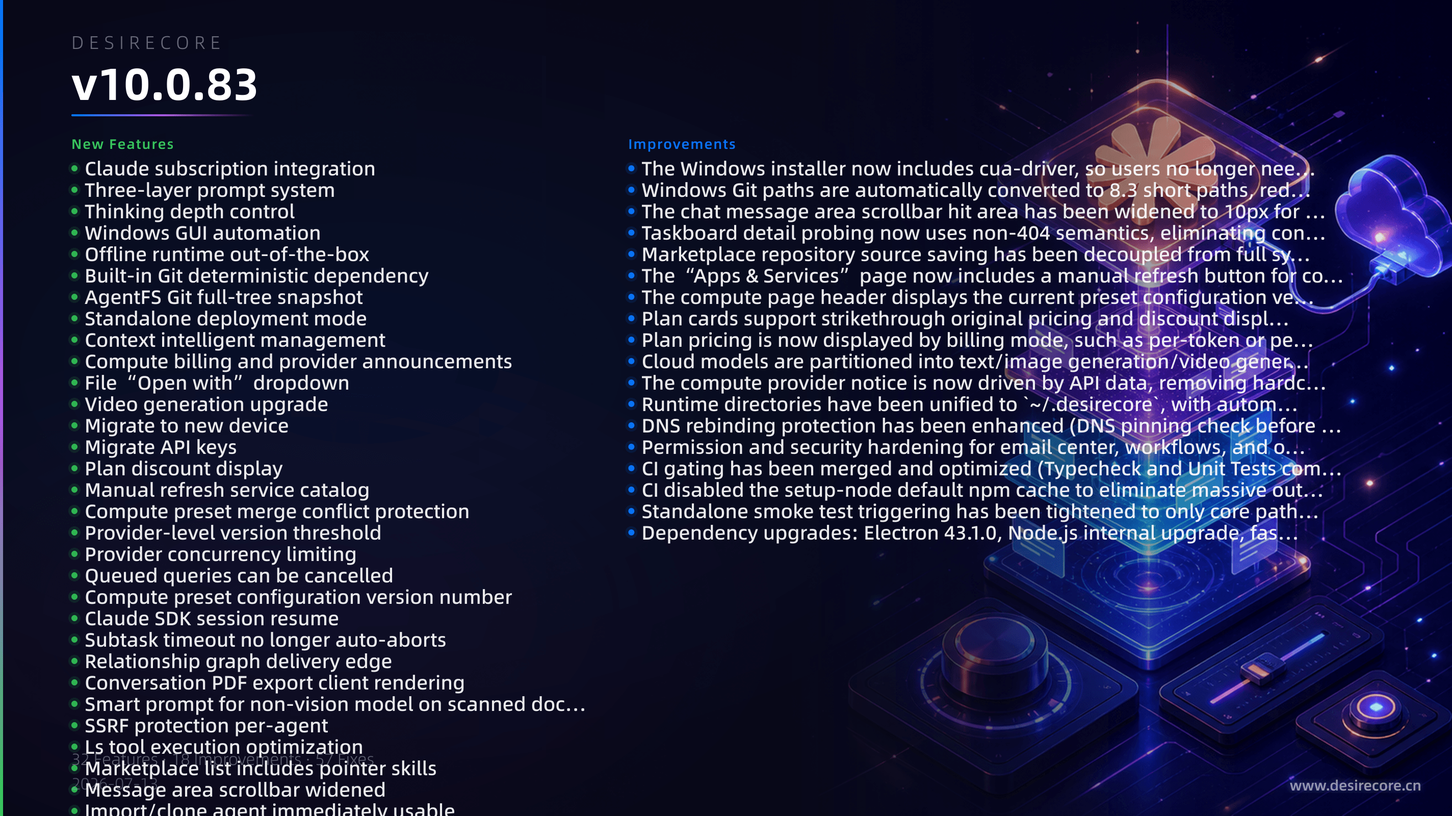
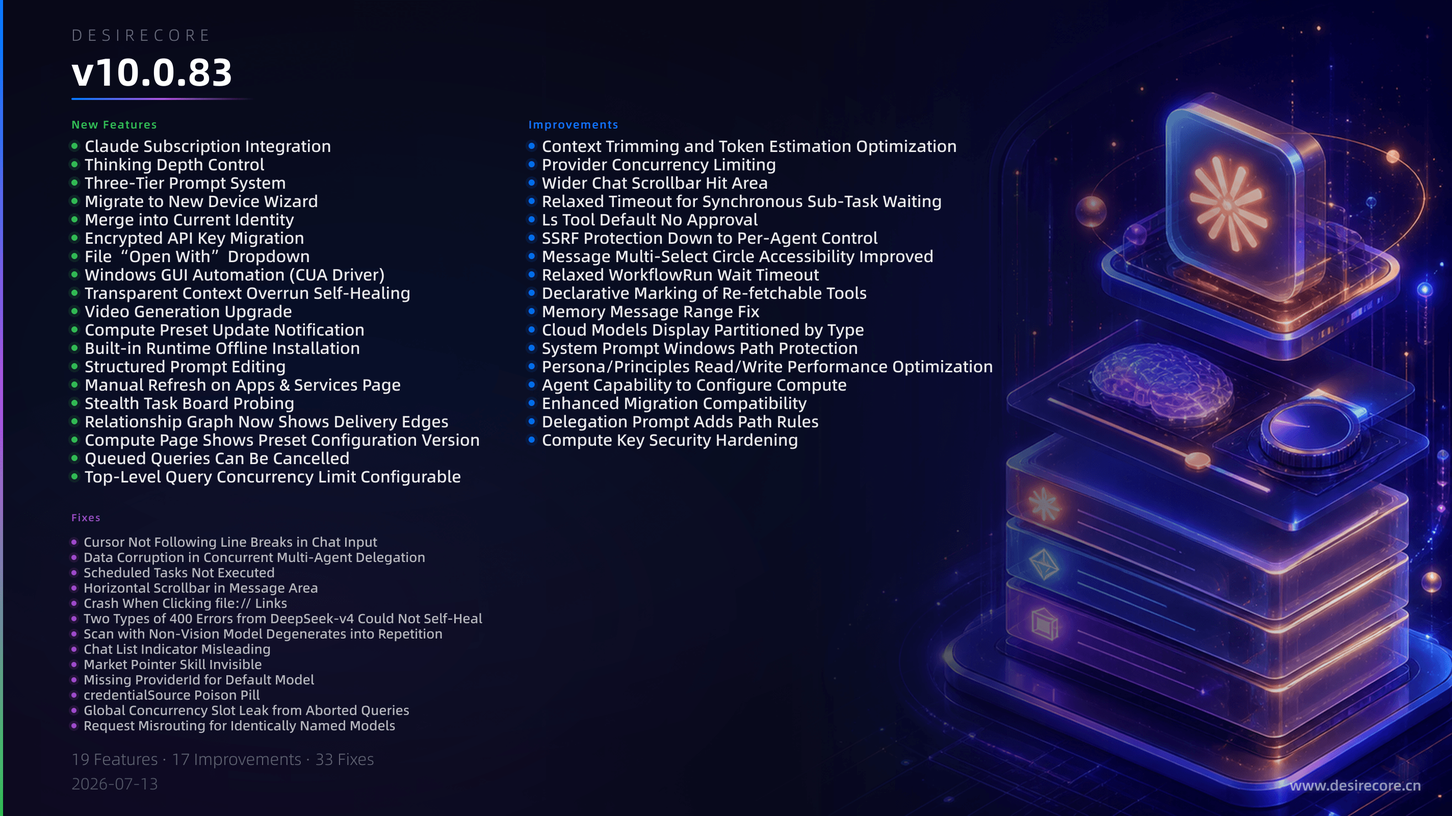
docs: update changelog for v10.0.83

diff --git a/i18n/en/docusaurus-plugin-content-docs/current/05-more/10-changelog/v10.0.83.md b/i18n/en/docusaurus-plugin-content-docs/current/05-more/10-changelog/v10.0.83.md
@@ -5,119 +5,81 @@ sidebar_position: 17
 
 # DesireCore v10.0.83
 
-**Release Date**: 2026-07-12
+**Release Date**: 2026-07-13
 
-![v10.0.83 Release Overview](/img/changelog/v10.0.83-en.png)
+![v10.0.83 更新概览](/img/changelog/v10.0.83-en.png)
 
 ## New Features
-- **Claude subscription integration**: Supports three ways to access Claude Pro/Max subscription compute: native login via Claude Code, in-app OAuth, or manual `setup-token`. Fulfillment is handled through the built-in Claude Agent SDK backend with a complete audit chain.
-- **Three-layer prompt system**: Introduces global (user-level), team (Git-managed, distributed with the team), and Agent layers of overlay prompts. A centralized “Prompt Center” UI provides unified management with structured form editing and real-time preview.
-- **Thinking depth control**: A session-level thinking depth selector button added to the input box, supporting six levels: auto/off/low/medium/high/maximum. Automatically compatible with both OpenAI and Anthropic formats; the setting can be persisted in the agent configuration.
-- **Windows GUI automation**: The Windows installer bundles cua-driver 0.7.1. Agents can directly control native Windows applications (screenshot, click, input, read window state), with support for background windows that don’t steal focus—ready to use out of the box.
-- **Offline runtime out-of-the-box**: The installer includes Python 3.13 and Node.js 24 LTS runtimes, auto-imported on first launch and fully usable offline. The version list also provides an offline fallback, eliminating infinite retries on an empty list.
-- **Built-in Git deterministic dependency**: Git 2.53.0 is bundled with the application, so marketplace sync, Agent snapshots, and other features work without a system Git installation.
-- **AgentFS Git full-tree snapshot**: The rollback mechanism has been upgraded from file-level copying to Git full-tree snapshots, supporting holistic restoration (including recreation after deletion) and naturally covering off-round and background writes.
-- **Standalone deployment mode**: Agent Service can be deployed as an independent process on a server, separate from Electron, with secure remote access and one-customer-per-container delivery (includes instance lock, token authentication, SSRF protection, Caddy TLS, and other complete recipes).
-- **Context intelligent management**: Context trimming now follows a cascading strategy: truncate tool output first → delete old turns → fold middle segments. Tool outputs that can be refetched are unloaded losslessly. The model’s real context window and output limit are learned automatically from limit-exceeded errors and persisted, enabling large outputs to be generated in one pass.
-- **Compute billing and provider announcements**: The compute model list now shows a “Compute power provided by partners” notice at the top. Models are partitioned into text/image generation/video generation sections (generation models are marked “Chat unavailable”). Pricing is displayed for different billing modes such as per-token or per-use.
-- **File “Open with” dropdown**: A new “Open with ▾” dropdown on message file entries supports in-app open, system default application, choose other application, and reveal in folder.
-- **Video generation upgrade**: The video generation relay has been upgraded to an OpenAI Video API-compatible path, providing out-of-the-box HappyHorse video generation using official cloud compute, while also adapting to the Doubao Seedance 2.0 video model.
-- **Migrate to new device**: A complete “Migrate to new device” export/import wizard has been added, supporting M1 identity replacement (identity follows the person) and M2 merge into the current identity (source data remapped to the local identity).
-- **Migrate API keys**: Migration exports can optionally encrypt API keys (scrypt + AES-256-GCM). On import, you can decide per provider whether to replace or merge keys, avoiding reconfiguring all keys on the new device.
-- **Plan discount display**: Plan card pricing now supports a strikethrough original price and discount badges like “Save X%” / “Limited free”.
-- **Manual refresh service catalog**: A manual refresh button has been added to the “Apps & Services” page to instantly sync the registry directory.
-- **Compute preset merge conflict protection**: When config-center preset updates are applied, user-modified provider fields (endpoint, label, format, etc.) are never overwritten. Conflicts are presented in a review panel for visual comparison and decision.
-- **Provider-level version threshold**: Config-center can declare a minimum client version requirement for a provider. If the requirement is not met, a “Client update required” prompt is shown instead of the provider being silently unavailable.
-- **Provider concurrency limiting**: You can configure a maximum number of concurrent requests and a queue limit per provider. Requests exceeding the limit wait in the queue instead of erroring out, and the frontend shows real-time queue status.
-- **Queued queries can be cancelled**: Queries waiting in the queue can be stopped by clicking, immediately dequeuing them so they are not unconditionally scheduled for execution with side effects.
-- **Compute preset configuration version number**: The header of the compute page now displays the current preset data version, making it easy to confirm sync status.
-- **Claude SDK session resume**: The Claude subscription path supports session-resume to restore prompt cache, reducing quota consumption from repeated context. Images can also be passed directly to the model on the subscription path.
-- **Subtask timeout no longer auto-aborts**: The default synchronization timeout for delegation, generating sub-agents, and sending messages has been relaxed to 30 minutes. On timeout, the sub-session is no longer automatically aborted; instead, the caller is informed and can choose to continue or actively terminate.
-- **Relationship graph delivery edge**: The relationship graph now includes a “delivery” edge. When an agent successfully delivers a result, the graph correctly renders the delivery link.
-- **Conversation PDF export client rendering**: Conversation PDF export now uses client-side rendering, removing the dependency on an Agent Service host.
-- **Smart prompt for non-vision model on scanned documents**: When a non-vision model reads a pure scanned PDF, instead of clearing tools and causing infinite re-reading, the server now directly prompts “Please switch to a model that supports visual understanding” and ends the turn.
-- **SSRF protection per-agent**: SSRF protection has been extended from a global switch to per-agent configuration, with changes taking effect immediately without restart. The stricter of the global and agent-level settings is applied.
-- **Ls tool execution optimization**: Ls directory listing defaults to automatic approval without manual confirmation (read-only operation). On macOS, when accessing a directory protected by system permissions for the first time, a native authorization dialog automatically appears; when permission is denied, a clear system-settings guide is returned.
-- **Marketplace list includes pointer skills**: ADR-038 pointer skills are fully available when browsing, searching, and viewing details in the marketplace. Version determination has been fixed (falls back to the marketplace registered version when no version field is present), and frontmatter validation now accepts comma-separated values.
-- **Message area scrollbar widened**: The vertical scrollbar track in the chat message area has been widened to 10px for easier mouse dragging.
-- **Import/clone agent immediately usable**: Agents imported or cloned by any means are online immediately after being written to disk; a client restart is no longer required.
-- **Delegate prompt path rules**: When delegating tasks, agents now actively use absolute paths when referencing files or directories, preventing path resolution failures caused by different working directories on the receiving side.
+- **Claude Subscription Integration**: Support for logging in via Claude Code OAuth or manual configuration, using Claude Pro/Max subscription compute; model calls are fulfilled through the built-in official SDK backend with complete audit trails.
+- **Thinking Depth Control**: Added thinking depth level buttons in the chat input area, supporting Off / Auto / Deep multiple levels, with per-session memory; covers OpenAI, Anthropic, and domestic model dialects.
+- **Three-Tier Prompt System**: Added global (personal) and team-level prompts, injected on top of Agent-level prompts; new centralized Prompt Center for unified management, editing, and preview of all three tiers.
+- **Migrate to New Device Wizard**: A new “Migrate to New Device” entry in Settings, with a five-step wizard to export all data; on the new machine, the import process automatically recognizes the migration package, supports identity comparison, pre-backup protection, and restart to apply.
+- **Merge into Current Identity**: When importing a migration package, supports “Merge into Current Identity” mode, which remaps source identity data to the local identity name while keeping the local identity unchanged.
+- **Encrypted API Key Migration**: Optionally carry custom Provider API keys during migration, encrypted with a passphrase and stored independently (original secrets files are never included in the package); upon import, decide merging for each Provider individually.
+- **File “Open With” Dropdown**: File entries in chat messages now have an “Open With” menu, supporting in-app open, system default app, choose another app, and locate in file manager.
+- **Windows GUI Automation (CUA Driver)**: The Windows installer ships with cua-driver, enabling Agents to control desktop applications (screenshot, click, type, read window). Background operations do not steal focus, and users get out-of-the-box experience with zero setup.
+- **Transparent Context Overrun Self-Healing**: When the context exceeds the model’s true limit, the system automatically learns the real window and transparently retries; for large outputs, dynamic budget calculation produces the result in one go, eliminating manual adjustments.
+- **Video Generation Upgrade**: Upgraded to OpenAI Video API standard format, integrated official cloud compute for image/video generation, and adapted for the Doubao Seedance 2.0 video model.
+- **Compute Preset Update Notification**: When official Provider or model configurations published by config-center change, a notification badge and review panel show conflict diff and change details; users can adopt or keep each item.
+- **Built-in Runtime Offline Installation**: The installer bundles Python 3.13 and Node 24 LTS offline runtimes; they are silently imported in the background on first launch, enabling environment setup without internet.
+- **Structured Prompt Editing**: Agent persona and principles now support L0/L1/L2 layered form editing, with automatic format and schema validation on save; the system prompt preview panel shows segment proportions and allows copying the full prompt.
+- **Manual Refresh on Apps & Services Page**: Added a refresh button to manually synchronize registry directories and the pending approval queue.
+- **Stealth Task Board Probing**: Switching sessions no longer floods the console with 404 error logs from probing non-existent task boards.
+- **Relationship Graph Now Shows Delivery Edges**: After an Agent successfully delivers results, the “delivery” relationship edge is correctly displayed in the relationship graph, forming a closed loop with the “delegation” edge.
+- **Compute Page Shows Preset Configuration Version**: The header metadata area displays the current preset data version, aiding in troubleshooting configuration sync issues.
+- **Queued Queries Can Be Cancelled**: Users can stop a request at any time while waiting in the queue, preventing unconditional scheduling and execution.
+- **Top-Level Query Concurrency Limit Configurable**: The number of simultaneous top-level queries can be customized via an environment variable; interactive queries automatically take priority over background tasks.
 
 ## Fixes
-- Fixed an issue where macOS builds were rejected by Apple notarization because the built-in Python runtime binary lacked a secure timestamp (macOS packages now fall back to online runtime installation on first launch).
-- Fixed an issue on Windows where asar path separators caused SDK file verification to falsely report all misses.
-- Fixed an issue where `cpSync` default behavior rewritten built-in Git symbolic links as absolute paths, causing macOS notarization failure and dangling links in Linux packages.
-- Fixed an issue where uploading large files over slow links caused an endless 403 `RequestTimeTooSkewed` loop because transfers exceeded the SigV4 time window (files ≥64MB now use S3 multipart upload).
-- Fixed an issue in CI where `detect` and `post-release` jobs were scheduled on macOS runners, causing `gh` CLI download failures and the entire build being skipped.
-- Fixed multiple after-pack platform bugs in the v10.0.83 build that caused consecutive build failures.
-- Fixed an issue where same-named models routed through proxies could be incorrectly sent to the wrong provider (precise routing for multiple providers with same-named models, also covering all internal LLM invocation paths).
-- Fixed an issue where gateways that did not declare a dialect would not send the thinking depth activation parameter when a depth was selected (parameters are now injected fully based on the dialect).
-- Fixed an infinite loop where non-vision models reading pure scanned PDFs had all tools cleared, causing degenerate re-reading.
-- Fixed an issue where scheduled tasks would respond only once and then stop executing (maxTurns relaxed to 30, interim-ack detection added for continued running, failure fallback closed loop).
-- Fixed an issue where scheduled task execution results were not fed back, rendering all backoff, alerting, and disabling mechanisms ineffective.
-- Fixed an issue where relative time drifted in conversations (the model’s “now” was frozen at session start, causing “X minutes later” to be inaccurate).
-- Fixed an issue where clicking `file://` links in agent replies caused errors on macOS or a gray screen freeze on Windows.
-- Fixed an issue where data cleanup failed on Windows (Git read-only files and reserved device names caused `rmSync EPERM`).
-- Fixed an issue where imported agents appeared as offline in the list (the imported path was not registered in the Registry after being written to disk).
-- Fixed an issue where AgentFS file monitoring hot updates completely stopped working (`chokidar` mistakenly ignored the entire `~/.desirecore` hidden directory tree).
-- Fixed an issue where fan-out parallel delegation skipped target validation, causing non-existent targets to be silently executed.
-- Fixed an issue where delegation cards displayed “unknown” in fan-out mode.
-- Fixed an issue where concurrent delegation, messaging, and assistance requests resulted in mismatched replies (a `correlationId` was added to the via-messaging path for precise matching).
-- Fixed an issue where `send_message` asynchronous receipts could mismatch synchronous waiters across paths due to a missing `correlationId`.
-- Fixed an issue where pressing Shift+Enter for a new line in the chat input box scrolled the new line out of view, making users think the line break had not worked.
-- Fixed an issue where scrolling to the bottom of the chat message area and continuing to scroll caused the entire window to flicker (added `overscroll-contain` to block scroll chain bubbling).
-- Fixed an issue where a horizontal scrollbar in the message area made long content clipped and invisible (switched to `overflow-wrap: anywhere` plus markdown internal horizontal scrolling).
-- Fixed an issue where the message action bar overflowed and covered the timestamp in narrow bubbles.
-- Fixed an issue where the selection circle was unresponsive in multi-select mode (especially in complex DOM structures).
-- Fixed an issue where the agent list indicator incorrectly showed green during tool execution (indicator color now derived from session state and active tool name).
-- Fixed an issue where requests were routed to a local provider when both cloud and local models had the same name.
-- Fixed an issue where the message count in conversation-memory topic details displayed values in the billions (`messageIndex` was mistakenly passing a timestamp).
-- Fixed an issue where floating-point relationship heat numbers broke the card layout (now displayed with a thousands separator and one decimal place).
-- Fixed an issue on Windows where paths containing spaces caused all Git operations to crash.
-- Fixed an issue where Git 8.3 short-path conversion spammed the log on every Git operation when PowerShell was unavailable.
-- Fixed an issue on Windows where extracting the built-in Git tarball always failed because MSYS tar cannot handle drive letter paths.
-- Fixed an issue where application cold-start taskboard probing produced a large amount of 404 noise in the console.
-- Fixed numerous data-consistency race conditions in concurrent multi-agent delegation (directory collisions, member loss, half-written files, count drift).
-- Fixed an issue where the dual-lock system for `agent.json` was mutually unaware of each other, causing concurrent write conflicts.
-- Fixed an issue where the provider semaphore used the wrong key, making rate limiting ineffective.
-- Fixed an issue where a provider’s fractional concurrency limit was rounded down to zero slots, and configuration read failures were not retried.
-- Fixed an issue where corrupted compute configuration at agent-service startup prevented the entire service from starting.
-- Fixed an issue where stopping an agent query caused a permanent global concurrency slot leak, causing all top-level queries to hang.
-- Fixed the same slot leak occurring through the system sleep and conversation reset abort paths.
-- Fixed an issue where data import/export rules were maintained in a fragmented way.
-- Fixed an issue where malicious entries during zip import could write outside the intended directory.
-- Fixed an issue where the Agent Service did not automatically recover after an import failure.
-- Fixed an error in `agent.json` schema validation (added `author` and `default_enabled` field definitions).
-- Fixed an issue where renaming an agent did not refresh the chat sidebar list.
-- Fixed issues where the agent list showed duplicate teams and residual team entries remained after deleting an agent.
-- Fixed an issue where the service catalog pending-review window crashed due to dirty data and did not update status in real time.
-- Fixed an issue where docx seed self-checks always failed with a `SyntaxError` due to nested quotes.
-- Fixed an issue where non-official Anthropic-compatible gateways (DeepSeek/GLM, etc.) in reasoning mode were missing the thinking response, causing a 400 error.
-- Fixed an issue where the self-healing mechanism for `max_tokens` exceeding a gateway’s hard limit did not recognize Chinese error messages, preventing it from learning.
-- Fixed multiple boundary accuracy issues in context trimming and token estimation.
-- Fixed an issue where models like GLM mistakenly output tool parameters as an array, crashing the entire session.
-- Fixed an issue where during the pipeline assembly phase (after acquiring a slot, before `sessionId` generation) query cancellation was unresponsive.
-- Fixed an issue where provider semaphore queue waiters had no abort awareness, leading to wasted queuing delays.
-- Fixed an issue where pointer entries missing `requiredClientVersion` caused the upgrade gate to always evaluate as false.
-- Fixed an issue in standalone mode where some requests bypassed the unified authentication entry point, rendering authentication ineffective.
-- Fixed an issue where browser native media elements in standalone remote access could not carry authentication headers, making images and videos invisible.
+- **Cursor Not Following Line Breaks in Chat Input**: After operations like Shift+Enter line break, accepting prediction suggestions, or history recall, the cursor now scrolls into the visible area automatically.
+- **Data Corruption in Concurrent Multi-Agent Delegation**: Fixed data consistency issues during concurrent delegation, including team directory conflicts, member loss, half-written file corruption, and task count drift.
+- **Scheduled Tasks Not Executed**: Fixed an issue where scheduled tasks would reply with a single confirmation and then be truncated without ever completing; failed tasks now correctly back off and alert instead of infinitely retrying.
+- **Horizontal Scrollbar in Message Area**: Long URLs and wide Markdown tables no longer force a horizontal scrollbar; content is always fully visible.
+- **Crash When Clicking file:// Links**: Clicking a local file link in an Agent’s reply no longer crashes or grays out the window; instead it is opened with the system default app.
+- **Two Types of 400 Errors from DeepSeek-v4 Could Not Self-Heal**: Gateway `max_tokens` range limit errors and missing thinking block return errors are now automatically learned, corrected, and transparently retried.
+- **Scan with Non-Vision Model Degenerates into Repetition**: When reading a pure image-scan PDF using a non-vision model, the system now prompts to switch models directly instead of clearing tools, which previously caused the model to endlessly repeat output.
+- **Chat List Indicator Misleading**: The list indicator light no longer incorrectly shows green while an Agent is executing tools; it now correctly displays yellow (busy).
+- **Market Pointer Skill Invisible**: ADR-038 pointer-type skills are once again visible in the marketplace, searchable, and viewable in detail; version update detection works correctly.
+- **Missing ProviderId for Default Model**: Fixed a problem where historical data lost the ProviderId for the default model configuration, causing the default to become permanently invalid.
+- **credentialSource Poison Pill**: Fixed an issue where older clients merging a Provider preset containing unknown credential sources would reject the entire configuration, causing all compute to fail; now only unsupported Providers are skipped, and the rest work normally.
+- **Global Concurrency Slot Leak from Aborted Queries**: Repeatedly stopping queries manually no longer exhausts global concurrency slots, which previously froze all Agents. Also fixed leak paths triggered by system sleep and session reset.
+- **Request Misrouting for Identically Named Models**: When multiple Providers have identically named models, requests are no longer incorrectly routed to an unrelated Provider.
+- **Imported Agent List Offline**: Imported or cloned Agents now appear online in the list immediately without requiring an application restart.
+- **Missing Validation for Fan-out Delegation Targets**: When delegating to multiple targets simultaneously, invalid targets are now explicitly reported as failed instead of being silently skipped; the delegation card correctly shows all target names.
+- **AgentFS Hot Reload Failure**: Changes made by directly editing files like `agent.json` now take effect instantly without relying on manual refresh.
+- **Mismatched Async Acknowledgment for send_message**: Concurrent async message acknowledgments are no longer incorrectly assigned to other waiting synchronous requests.
+- **Mismatched Reply for Concurrent via-messaging Requests**: When the same caller makes multiple delegation/message/assist requests to the same target concurrently, replies are now precisely matched to the corresponding request.
+- **Window Flicker When Scrolling Past Bottom of Chat**: Continued scrolling after reaching the bottom of the message list no longer triggers window flickering.
+- **Chat Message Action Bar Overflow**: Action buttons beneath short messages no longer overflow and cover the timestamp.
+- **Unresponsive Selection Circle in Multi-Select Mode**: Fixed an issue where clicking the selection circle was unresponsive in certain scenarios.
+- **Market Repository Source Saving Stuck**: After adding a new repository source, the interface no longer gets stuck on “Saving” or shows repeated progress.
+- **Relationship Heat Value Overflow**: Relationship heat on the agent list is displayed as thousands with one decimal place, no longer bursting the card.
+- **Cannot Cancel During Pipeline Assembly Phase**: The tool assembly and context preparation phase (after acquiring a slot but before the actual query) now responds to stop operations.
+- **Service Directory Rendering Crash**: Dirty data generated when an Agent registers a service on behalf of someone no longer crashes the pending approval page; directory status updates in real time.
+- **Duplicate Team Creation with Same Name**: Duplicate team creation by AI repeated calls is now automatically deduplicated, preventing redundant teams.
+- **Orphaned Teams After Deleting Agent**: Teams that contained the deleted agent are automatically disbanded or have the member removed, preventing orphaned teams.
+- **Scanned Document Tool Clearance Causing Degenerative Repetition with Non-Vision Model**: Now directly prompts to switch model instead of letting the model fall into a dead loop with no available tools.
+- **Provider Concurrent Queue Without Timeout or Cancel**: Queued requests that are disconnected or aborted are immediately dequeued and no longer blocked.
+- **Failed to Clear Data on Windows**: Fixed errors when clearing data caused by read-only git files and reserved device name files.
+- **Git Operations Failed on Windows**: Fixed failures in market sync, Agent snapshots, etc., caused by git binary paths containing spaces or colons.
+- **Missing Cancel Checkpoint During Pipeline Assembly Phase**: Long-running steps like MCP tool discovery now respond to cancellation.
+- **Missing OpenAI Entry Point for Claude SDK Backend**: OpenAI-format requests are now correctly routed to the Claude SDK backend.
 
 ## Improvements
-- The Windows installer now includes cua-driver, so users no longer need to install it manually for GUI automation.
-- Windows Git paths are automatically converted to 8.3 short paths, reducing simple-git warning noise.
-- The chat message area scrollbar hit area has been widened to 10px for easier dragging.
-- Taskboard detail probing now uses non-404 semantics, eliminating console noise during startup and session switching.
-- Marketplace repository source saving has been decoupled from full sync, fixing the issue where adding a repository left it stuck on “Saving…” for a long time and showed the repository twice.
-- The “Apps & Services” page now includes a manual refresh button for convenient instant sync of the registry directory.
-- The compute page header displays the current preset configuration version number.
-- Plan cards support strikethrough original pricing and discount display.
-- Plan pricing is now displayed by billing mode, such as per-token or per-use.
-- Cloud models are partitioned into text/image generation/video generation sections, with generation models marked “Chat Unavailable”.
-- The compute provider notice is now driven by API data, removing hardcoded partner names.
-- Runtime directories have been unified to `~/.desirecore`, with automatic migration for existing users.
-- DNS rebinding protection has been enhanced (DNS pinning check before outbound + undici connection locking).
-- Permission and security hardening for email center, workflows, and other integration features.
-- CI gating has been merged and optimized (Typecheck and Unit Tests combined into a single job with `tsbuildinfo` incremental caching).
-- CI disabled the setup-node default npm cache to eliminate massive outbound traffic from self-hosted runners.
-- Standalone smoke test triggering has been tightened to only core path changes like `lib/**`.
-- Dependency upgrades: Electron 43.1.0, Node.js internal upgrade, fastify 5.10.0, tiptap suite 3.27.3, typebox 1.3.5, and others.
+- **Context Trimming and Token Estimation Optimization**: Trimming now uses a cheapest-first cascading strategy, with lossless unloading of re-fetchable tool results; token estimation now covers previously missed thinking and tool names, and non-OpenAI models automatically include additional margin.
+- **Provider Concurrency Limiting**: Each Provider can have a maximum concurrent request limit and queue size; excess requests wait in a queue instead of immediately failing. Configuration takes effect instantly.
+- **Wider Chat Scrollbar Hit Area**: The message list scrollbar track width increased to 10px for easier dragging.
+- **Relaxed Timeout for Synchronous Sub-Task Waiting**: Default wait time for delegation, `spawn_agent`, `send_message`, etc., extended from 5 minutes to 30 minutes; upon timeout, the task is no longer aborted automatically but instead prompts the caller to decide.
+- **Ls Tool Default No Approval**: Directory listing now executes directly; on macOS, first access to a protected directory triggers a system authorization dialog, and a permission denied response includes guidance.
+- **SSRF Protection Down to Per-Agent Control**: Each Agent can enable internal network protection individually, and DNS rebinding attacks are also blocked.
+- **Message Multi-Select Circle Accessibility Improved**: Selection circles are now semantic buttons, supporting keyboard operation and screen readers.
+- **Relaxed WorkflowRun Wait Timeout**: Running workflows is no longer truncated by a fixed timeout; a custom timeout can be passed.
+- **Declarative Marking of Re-fetchable Tools**: The “re-fetchable” attribute of a tool is now declared in the registry, and MCP tools automatically derive it based on the protocol.
+- **Memory Message Range Fix**: Message counts in thread details no longer show abnormally large values (billions); historical dirty data is auto-repaired.
+- **Cloud Models Display Partitioned by Type**: Official compute models are displayed in partitions (text / image generation / video generation), with pricing shown by billing mode and supplier announcements at the top.
+- **System Prompt Windows Path Protection**: Windows paths in system prompts are wrapped in inline code to prevent backslash escaping by Markdown.
+- **Persona/Principles Read/Write Performance Optimization**: Uses caching based on file modification time, re-parsing only after external edits.
+- **Agent Capability to Configure Compute**: Agents can help users configure Providers and API keys; keys are write-only for Agents.
+- **Enhanced Migration Compatibility**: Old-version export packages and future-version packages can be safely imported, with proactive alerts when importing across identities.
+- **Delegation Prompt Adds Path Rules**: When passing file resources across Agents, absolute paths are automatically used.
+- **Compute Key Security Hardening**: Keys are automatically masked in HTTP responses; plaintext viewing requires IPC channel authorization. Read/Grep/Ls tools are precisely denied access to key files.

diff --git a/docs/05-more/10-changelog/v10.0.83.md b/docs/05-more/10-changelog/v10.0.83.md
@@ -5,119 +5,81 @@ sidebar_position: 17
 
 # DesireCore v10.0.83
 
-**发布日期**: 2026-07-12
+**发布日期**: 2026-07-13
 
 ![v10.0.83 更新概览](/img/changelog/v10.0.83.png)
 
 ## 新功能
-- **Claude 订阅接入**：支持通过 Claude Code 原生登录、应用内 OAuth 或手动 setup-token 三种方式接入 Claude Pro/Max 订阅算力，经内置 Claude Agent SDK 后端履约，审计链路完整
-- **三层提示词体系**：新增全局层（用户级）、团队层（git 管理随团队分发）和 Agent 层三层叠加提示词，提供集中式「提示词中心」UI 统一管理，支持结构化表单编辑与实时预览
-- **思考深度控制**：输入框新增思考深度档位选择按钮（会话级），支持 auto/off/低/中/高/最深 六档，OpenAI 与 Anthropic 双格式自动兼容，档位可持久化到智能体配置
-- **Windows GUI 自动化**：Windows 安装包内置 cua-driver 0.7.1，智能体可直接操控 Windows 原生应用（截图、点击、输入、读取窗口状态），支持后台窗口不抢焦点，开箱即用
-- **离线运行时开箱即用**：安装包内置 Python 3.13 和 Node.js 24 LTS 运行时，首启自动导入，完全离线可用；版本列表支持离线兜底，消除空列表无限重试问题
-- **内置 Git 确定性依赖**：随应用打包 Git 2.53.0，无需系统安装 Git 即可使用市场同步、Agent 快照等功能
-- **AgentFS Git 全树快照**：回撤机制从文件级拷贝升级为 Git 全树快照，支持整体还原（含删除后重建）、天然覆盖离回合后台写入
-- **独立部署模式**：Agent Service 可脱离 Electron 以独立进程部署到服务器，支持远程安全访问与一客户一容器交付（含实例锁、Token 鉴权、SSRF 防护、Caddy TLS 等完整配方）
-- **上下文智能管理**：上下文裁剪改为级联策略（先截工具输出→再删老轮→中段折叠），可重取工具的输出无损卸载；从超限报错自动学习模型真实上下文窗口与输出上限并持久化，大输出一次成型
-- **算力计费与供应商公告**：算力模型列表顶部展示「算力由合作伙伴提供」公告，模型按文本/图片生成/视频生成分区展示（生成类标注「对话不可用」），价格按 token/按次等计费模式分支展示
-- **文件「打开方式」下拉**：消息中的文件条目新增「打开方式 ▾」下拉菜单，支持应用内打开、系统默认应用打开、选择其他应用打开、在文件夹中定位显示
-- **视频生成升级**：视频生成中转升级为 OpenAI Video API 兼容路径，接入官方云算力开箱即用 HappyHorse 视频生成，同时适配豆包 Seedance 2.0 视频模型
-- **迁移到新设备**：新增「迁移到新设备」完整导出导入向导，支持 M1 身份替换（身份跟人走）和 M2 归并到当前身份（源数据定向重映射到本机身份）
-- **迁移 API 密钥**：迁移导出可选加密打包 API 密钥（scrypt + AES-256-GCM），导入时支持逐 Provider 替换/合并决策，避免新设备重新配置所有密钥
-- **套餐折扣展示**：套餐卡片价格区支持原价划线与省 X% / 限免折扣徽章展示
-- **手动刷新服务目录**：「应用与服务」页面新增手动刷新按钮，点击即时同步注册表目录
-- **算力预置合并冲突保护**：config-center 预置更新时，用户已修改的 Provider 字段（地址/标签/格式等）永不被上游覆盖，冲突项通过审阅面板可视化对比决策
-- **Provider 级版本门槛**：支持 config-center 为 Provider 声明客户端最低版本要求，不满足时提示「需更新客户端」而非静默不可用
-- **Provider 并发限流**：支持为每个 Provider 配置最大并发请求数与排队上限，超出排队等待而非报错，前端实时显示排队状态
-- **排队查询可中止**：排队等待中的查询支持点击停止立即出队，不再被无条件调度执行产生副作用
-- **算力预置配置版本号**：算力页面头部显示当前预置数据版本号，便于快速确认数据同步状态
-- **Claude SDK 会话恢复**：Claude 订阅路径支持 session-resume 恢复 prompt cache，减少重复上下文的 quota 消耗；支持图片在订阅路径直传给模型
-- **子任务超时不再自动中断**：委派/生成子 Agent/发送消息的同步等待默认超时放宽至 30 分钟，超时不再自动中止子会话，改为告知调用方自行决策继续或主动终止
-- **关系图谱交付边**：关系图谱补齐「交付」关系边，Agent 成功交付结果后图谱可正确渲染交付连线
-- **对话 PDF 导出客户端渲染**：对话导出 PDF 改为客户端端渲染，消除对 Agent Service 的宿主依赖
-- **扫描件遇非视觉模型智能提示**：非视觉模型读取纯扫描件 PDF 时，不再清空工具导致无限复读，改为服务端直接提示「请切换到支持视觉理解的模型」并结束本轮
-- **SSRF 防护下沉到 per-Agent**：SSRF 防护从全局开关扩展为逐 Agent 可配置，修改即时生效无需重启，全局与 Agent 级取更严
-- **Ls 工具执行优化**：Ls 列目录默认免审批直接执行（只读操作），macOS 首次访问受系统权限管控的目录时自动弹原生授权框，权限被拒时返回明确的系统设置引导
-- **市场列表纳入 pointer 技能**：ADR-038 pointer 技能在市场浏览/搜索/详情中完全可用，版本判定修复（无 version 字段时回退市场登记版本），frontmatter 校验兼容逗号分隔写法
-- **消息区滚动条加宽**：聊天消息区垂直滚动条轨道加宽至 10px，方便鼠标拖拽
-- **导入/克隆智能体立即可用**：通过任意方式导入或克隆的智能体落盘后立即在线，不再需要重启客户端
-- **委派提示词路径规则**：委派任务时智能体会主动使用绝对路径引用文件/目录，避免接收方工作目录不同导致路径解析失败
+- **Claude 订阅接入**：支持通过 Claude Code OAuth 登录或手动配置，使用 Claude Pro/Max 订阅算力，模型调用经内置官方 SDK 后端履约，审计链路完整
+- **思考深度控制**：聊天输入区新增思考深度档位按钮，支持关闭/自动/深度多档调节，会话独立记忆；覆盖 OpenAI、Anthropic 及国产模型方言
+- **三层提示词体系**：新增全局层（个人）和团队层提示词，与 Agent 层叠加注入；新增集中式提示词中心，统一管理三层提示词的编辑与预览
+- **迁移到新设备向导**：设置页新增「迁移到新设备」入口，五步向导引导导出全量数据；新机导入时自动识别迁移包，支持身份对比、预备份保护和重启生效
+- **归并到当前身份**：导入迁移包时支持「归并到当前身份」模式，将包内源身份的数据定向重映射到本机名下，本机身份不变
+- **加密迁移 API 密钥**：迁移时可选择携带自定义 Provider 的 API 密钥，经口令加密后独立存储（原始 secrets 文件永不进包），导入时逐 Provider 决策合并
+- **文件「打开方式」下拉**：聊天消息中的文件条目新增打开方式菜单，支持应用内打开、系统默认应用、选择其他应用、在文件管理器中定位
+- **Windows GUI 自动化（CUA Driver）**：Windows 安装包内置 cua-driver，Agent 可操控桌面应用（截图、点击、输入、读取窗口），后台操作不抢焦点，用户零安装开箱即用
+- **上下文超限透明自愈**：当上下文超出模型真实上限时自动学习真实窗口并透明重试，大输出自动计算动态预算一次成型，无需手动调整
+- **视频生成升级**：升级为 OpenAI Video API 标准格式，接入官方云算力图像/视频生成，并适配豆包 Seedance 2.0 视频模型
+- **算力预置更新通知**：当 config-center 发布的官方 Provider 或模型配置发生变更时，通过通知角和审阅面板展示冲突对比与变更明细，用户可逐项决定采用或保留
+- **内置运行时离线安装**：安装包内置 Python 3.13 和 Node 24 LTS 离线运行时，首启后台静默导入，无需联网即可完成环境配置
+- **结构化提示词编辑**：Agent 的 persona 和 principles 支持 L0/L1/L2 分层表单编辑，保存时自动校验格式与 Schema；系统提示词预览面板可查看各段占比并复制全文
+- **应用与服务页面手动刷新**：新增刷新按钮，可手动同步注册表目录与待审批队列
+- **任务板探测无痕化**：切换会话时不再因探测不存在的任务板而在控制台刷 404 错误日志
+- **关系图谱补齐交付边**：Agent 成功交付结果后，关系图谱中正确显示「交付」关系边，与「委派」边形成闭环
+- **算力页面显示预置配置版本号**：头部元数据区展示当前预置数据版本，便于排查配置同步问题
+- **排队中的查询支持中止**：用户在排队等待期间可随时停止请求，不再被无条件调度执行
+- **顶层查询并发上限可配置**：通过环境变量可自定义同时运行的顶层查询数量，交互式查询自动优先于后台任务
 
 ## 修复
-- 修复 macOS 构建因内置 Python 运行时二进制签名缺 secure timestamp 被 Apple 公证拒绝的问题（macOS 包首启回退在线安装运行时）
-- 修复 Windows 构建因 asar 路径分隔符导致 SDK 文件校验误报全部 miss 的问题
-- 修复 cpSync 默认行为导致内置 Git 符号链接被重写为绝对路径，造成 macOS 公证失败和 Linux 包内悬空链接的问题
-- 修复大文件发布上传时因慢链路传输超过 SigV4 时间窗导致 403 RequestTimeTooSkewed 死循环的问题（≥64MB 文件改用 S3 分片上传）
-- 修复 CI 中 detect 与 post-release job 被调度到 macOS runner 导致 gh CLI 下载失败、整体构建 skipped 的问题
-- 修复 v10.0.83 构建中多个 after-pack 平台 bug 导致的连续构建失败
-- 修复同名模型经代理路由时可能串台到错误 Provider 的问题（多 Provider + 同名模型的精确路由，同时覆盖内部 LLM 调用全路径）
-- 修复 compat 未声明方言的网关上选择思考深度不发送开启参数的问题（按方言全量注入）
-- 修复非视觉模型读取纯扫描件 PDF 时清空所有工具导致退化复读的死循环
-- 修复定时任务只回一句话就不再执行的问题（maxTurns 放开至 30、interim-ack 检测续跑、失败回退闭环）
-- 修复定时任务执行结果未反馈导致退避/告警/禁用机制全部失效的问题
-- 修复会话中相对时间漂移（模型的「现在」冻结在会话起始时刻，导致「X 分钟后」不准确）的问题
-- 修复点击 Agent 回复中 file:// 链接导致 macOS 报错或 Windows 灰屏卡死的问题
-- 修复 Windows 下清除数据失败的问题（Git 只读文件和保留设备名文件导致 rmSync EPERM）
-- 修复导入的智能体在列表中显示为离线的问题（导入路径落盘后未注册 Registry）
-- 修复 AgentFS 文件监听热更新完全失效的问题（chokidar 误将 ~/.desirecore 隐藏目录整树忽略）
-- 修复 fan-out 并行委派跳过目标校验导致不存在的目标被静默执行的问题
-- 修复委派卡片在 fan-out 模式下显示「unknown」的问题
-- 修复委派/消息/协助请求并发时回复错配的问题（via-messaging 路径新增 correlationId 精确匹配）
-- 修复 send_message 异步回执因缺 correlationId 可能跨路径错配同步等待方的问题
-- 修复聊天输入框按 Shift+Enter 换行时新行落在可视区外、用户误以为换行无效的问题
-- 修复聊天消息区滑到底继续滑动导致整窗闪烁的问题（补充 overscroll-contain 阻断滚动链冒泡）
-- 修复消息区横向滚动条导致长内容被裁剪不可见的问题（改用 overflow-wrap:anywhere + markdown 内部横滚）
-- 修复消息操作栏在窄气泡下溢出盖住时间戳的问题
-- 修复多选模式下点击选择圆圈无响应的问题（尤其在复杂 DOM 结构中）
-- 修复智能体列表指示灯在工具执行期错误显示为绿色的问题（灯色改为由 session 状态和活跃工具名派生）
-- 修复同时存在云端和本地同名模型时请求串台到本地 Provider 的问题
-- 修复 conversation-memory 话题详情中消息条数显示亿级数值的问题（messageIndex 误传时间戳）
-- 修复关系热度浮点数撑破卡片布局的问题（改为千分位 + 1 位小数展示）
-- 修复 Windows 含空格路径导致 Git 操作全部崩溃的问题
-- 修复 Git 8.3 短路径转换中 PowerShell 不可用时日志被每次 Git 操作刷屏的问题
-- 修复 Windows 下内置 Git tarball 解压因 MSYS tar 无法处理盘符路径必失败的问题
-- 修复应用冷启动 taskboard 探测导致控制台出现大量 404 噪音的问题
-- 修复委派多智能体并发的大量数据一致性竞态（目录撞车、成员丢失、文件半写、计数漂移）
-- 修复 agent.json 双锁体系互不感知导致并发写入冲突的问题
-- 修复 provider 信号量使用错误 key 导致限流不生效的问题
-- 修复 provider 小数上限被取整为 0 槽、配置读取失败缓存不再重试的问题
-- 修复 agent-service 启动时 compute 配置损坏导致整个服务无法启动的问题
-- 修复 Agent 查询停止后全局并发槽永久泄漏导致所有顶层查询卡死的问题
-- 修复系统休眠和对话重置两条中止路径同样导致槽泄漏的问题
-- 修复数据导入导出规则分散维护的问题
-- 修复 zip 导入时恶意条目可越界写入的问题
-- 修复导入失败后 Agent Service 不自动恢复的问题
-- 修复 agent.json schema 校验告警（新增 author 与 default_enabled 字段定义）
-- 修复智能体改名后聊天侧边列表不刷新的问题
-- 修复智能体列表重复团队与删除 Agent 后团队残留的问题
-- 修复服务目录待审核窗口因脏数据渲染崩溃和状态不实时更新的问题
-- 修复 docx 种子自检因引号嵌套必然 SyntaxError 失败的问题
-- 修复推理模式下非官方 Anthropic 兼容网关（DeepSeek/GLM 等）thinking 回传缺失导致 400 的问题
-- 修复 max_tokens 超网关硬限时自愈机制不识别中文报错文案导致无法学习的问题
-- 修复上下文裁剪与 token 估算的多个边界精度问题
-- 修复 GLM 等模型错误地将工具参数输出为数组导致整条会话崩溃的问题
-- 修复 pipeline 组装阶段（获槽后、sessionId 生成前）无法响应查询取消的问题
-- 修复 provider 信号量排队等待者无 abort 感知导致排队延迟浪费的问题
-- 修复 pointer 条目缺少 requiredClientVersion 透传导致升级门控永久为 false 的问题
-- 修复 standalone 模式下部分请求绕过统一鉴权入口导致鉴权失效的问题
-- 修复 standalone 远程访问中浏览器原生媒体元素无法携带鉴权头导致图片/视频不可见的问题
+- **聊天输入框换行光标不跟随**：按 Shift+Enter 换行、接受预测建议、历史回溯等操作后，光标自动滚入可视区域
+- **委派多智能体并发数据错乱**：修复并发委派时团队目录冲突、成员丢失、文件半写损坏、任务计数漂移等数据一致性问题
+- **定时任务不执行**：修复定时任务到期后只回复一句确认就被截断、从未真正完成的问题；失败任务正确退避告警而非无限硬刷
+- **消息区横向滚动条**：长 URL 和宽 Markdown 表格不再撑出横向滚动条，内容始终完整可见
+- **点击 file:// 链接崩溃**：点击 Agent 回复中的本地文件链接不再导致窗口崩溃或灰屏，改为调用系统默认应用打开
+- **DeepSeek-v4 两类 400 错误无法自愈**：网关 max_tokens 范围限制和 thinking 块回传缺失两类报错现已自动学习修正并透明重试
+- **扫描件遇非视觉模型退化复读**：纯扫描件 PDF 用非视觉模型阅读时，改由系统直接提示切换模型，不再清空工具致模型陷入无限重复输出
+- **聊天列表指示灯误导**：智能体执行工具期间列表灯不再错误显示绿色，正确显示黄色忙碌状态
+- **市场 Pointer 技能不可见**：ADR-038 指针式技能重新出现在市场列表中，可正常浏览、搜索和查看详情，版本更新检测正确生效
+- **默认模型 ProviderId 缺失**：修复历史数据中默认模型配置丢失 ProviderId 导致默认值永久失效的问题
+- **credentialSource 毒丸**：修复老客户端合并含未知凭据源的 Provider 预设时整份配置被拒、算力全部失效的问题；现在仅跳过不支持的 Provider，其余正常使用
+- **中止查询致全局并发槽泄漏**：多次手动停止查询后不再耗尽全局并发槽导致所有 Agent 卡死，同时修复系统休眠和会话重置两条泄漏路径
+- **同名模型请求串台**：当多个 Provider 配置了同名模型时，请求不再错误路由到无关 Provider
+- **导入智能体列表离线**：导入或克隆智能体后立即在列表中显示在线状态，不再需要重启应用
+- **Fan-out 委派目标校验缺失**：同时委派多个目标时，无效目标现在会被明确报告失败而非静默跳过，委派卡片正确显示所有目标名称
+- **AgentFS 热更新失效**：直接编辑 agent.json 等文件后变更即时生效，不再依赖手动刷新
+- **send_message 异步回执错配**：并发的异步消息回执不再被错误分配给其他等待的同步请求
+- **via-messaging 并发请求回复错配**：同一调用方对同一目标并发发起多个委派/消息/协助请求时，回复精确匹配对应请求
+- **聊天滑到底继续滑动整窗闪烁**：消息列表滚到最底部后继续滑动不再触发窗口闪烁
+- **聊天消息操作栏溢出**：短消息下方操作按钮不再溢出盖住时间戳
+- **多选模式下点击选择圆圈无响应**：修复选择圆圈在某些场景下点击无反应的问题
+- **市场仓库源保存卡顿**：添加新仓库源后不再长时间卡在「保存中」或重复显示
+- **关系热度数值溢出**：智能体列表的关系热度显示为千分位加一位小数，不再撑破卡片
+- **流水线组装阶段无法取消**：获槽后、正式查询前的工具装配与上下文准备阶段现在可响应停止操作
+- **服务目录渲染崩溃**：智能体代注册服务时产生的脏数据不再导致待审批页面崩溃，目录状态实时更新
+- **团队同名重复创建**：AI 重复调用创建团队时自动去重，不再产生冗余团队
+- **删除智能体后团队残留**：被删智能体所在的团队自动解散或移除成员，不再有孤儿团队
+- **扫描件遇非视觉模型时清空工具导致退化复读**：现在直接提示切换模型，不再让模型陷入无工具可调的死循环
+- **Provider 并发排队无超时无取消**：排队等待期间断开连接或中止请求可立即出队，不再被阻塞
+- **Windows 下清除数据失败**：修复只读 git 文件和保留设备名文件导致清除数据报错的问题
+- **Windows git 操作失败**：修复 git 二进制路径含空格或冒号时市场同步、Agent 快照等全部失败的问题
+- **流水线组装阶段取消检查点缺失**：MCP 工具发现等长耗时步骤期间可响应取消
+- **Claude SDK 后端 openai 入口缺失**：OpenAI 格式请求也能正确路由到 Claude SDK 后端
 
 ## 改进
-- Windows 安装包内置 cua-driver，用户无需手动安装即可使用 GUI 自动化能力
-- Windows Git 路径自动转换为 8.3 短路径以消除 simple-git 警告噪音
-- 聊天消息区滚动条命中区加宽至 10px 方便拖拽
-- 任务板详情探测改为非 404 语义消除启动和切换会话时的控制台噪音
-- 市场仓库源保存解耦整轮同步，修复添加仓库后长时间卡「保存中」和仓库显示两份的问题
-- 应用与服务页面新增手动刷新按钮，方便即时同步注册表目录
-- 算力页面头部显示当前预置配置版本号
-- 套餐卡片支持原价划线与折扣展示
-- 套餐价格按 token/按次等计费模式分支展示
-- Cloud 模型按文本/图片生成/视频生成分区展示，生成类模型标注「对话不可用」
-- 算力供应商公告由接口数据驱动，去掉写死的合作伙伴名
-- 运行时目录统一到 ~/.desirecore，老用户自动迁移
-- DNS rebinding 防护补齐（外呼前 DNS pinning 复核 + undici 连接锁定）
-- 邮件中心与工作流等集成功能的权限和安全加固
-- CI 门禁合并优化（Typecheck 与 Unit Tests 合并为单一 Job + tsbuildinfo 增量缓存）
-- CI 关闭 setup-node 默认 npm 缓存，消除自托管 runner 巨量出网流量
-- standalone smoke 触发范围收紧，仅在 lib/\*\* 等核心路径变更时执行
-- 依赖升级：Electron 43.1.0、Node.js 内置升级、fastify 5.10.0、tiptap 全家桶 3.27.3、typebox 1.3.5 等
+- **上下文裁剪与 Token 估算优化**：裁剪采用 cheapest-first 级联策略，可重取工具结果无损卸载；Token 估算覆盖此前漏数的 thinking 和工具名，非 OpenAI 家族模型自动增加余量
+- **Provider 并发限流**：支持为每个 Provider 设置最大并发请求数和排队上限，超出部分排队等待而非直接报错，配置即时生效
+- **聊天滚动条加宽命中区**：消息列表滚动条轨道加宽至 10px，鼠标更容易拖拽
+- **子任务同步等待超时放宽**：委派、spawn_agent、send_message 等子任务的默认等待时间从 5 分钟延长至 30 分钟，超时不再自动中止，改为提示调用方决策
+- **Ls 工具默认免审批**：列出目录改为直接执行，macOS 首次访问受保护目录时自动弹出系统授权框，权限被拒时返回引导文案
+- **SSRF 防护下沉到逐 Agent 可控**：每个 Agent 可单独开启内网防护，DNS Rebinding 攻击也被阻断
+- **消息多选圆圈无障碍优化**：选择圆圈改为语义化按钮，支持键盘操作和屏幕阅读器
+- **WorkflowRun 等待超时放宽**：执行工作流时不再被固定超时截断，支持传入自定义超时
+- **可重取工具声明式标记**：工具的「可重取」属性改为注册表声明，MCP 工具根据协议自动推导
+- **记忆消息范围修复**：话题详情中消息条数不再显示亿级异常数值，历史脏数据自动修复
+- **云模型按类型分区显示**：官方算力模型按文本/图片生成/视频生成分区展示，支持按计费模式显示价格，顶部展示供应商公告
+- **系统提示 Windows 路径保护**：系统提示词中的 Windows 路径用行内代码包裹，避免反斜杠被 Markdown 转义丢失
+- **Persona/Principles 读写性能优化**：基于文件修改时间的缓存，仅在外部编辑后重新解析
+- **智能体配置算力能力**：Agent 可帮用户配置 Provider 和 API 密钥，密钥对 Agent 只写不读
+- **迁移包容错增强**：旧版导出包和未来版本包均可安全导入，跨身份导入时主动告警
+- **委托提示词新增路径规则**：跨 Agent 传递文件资源时自动使用绝对路径
+- **算力密钥安全加固**：密钥在 HTTP 响应中自动脱敏，明文查看需 IPC 通道授权；Read/Grep/Ls 工具精确拒绝读取密钥文件
